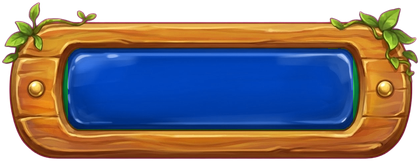
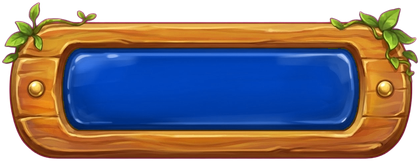
Fenêtres une par une ; incubateur : pourcentage + petite barre ; émail rouge/bleu jusqu'aux bouts ; titre de bannière centré
Retours de l'auteur. « Nouvelle créature ! » attend la fermeture de « Gardien
vaincu ! » (plus de superposition). La barre de l'incubateur, à 100 % d'un
bloc sans largeur fixe, se réduisait à une pastille ronde sur téléphone :
pourcentage + petite barre de largeur fixe. La recoloration ne prenait que
le rectangle central de l'émail (bouts verts) : émail d'un seul tenant.
Titre de bannière placé en nombres, sans marge de police Android. Sonde de
taps 20 / 20 ; 68 contrôles verts, 87 sabotages prouvés.

Changed region(s): [[0.1857, 0.7764, 0.8048, 0.8075], [0.1238, 0.3727, 0.1857, 0.7143], [0.8357, 0.3727, 0.8667, 0.7453]]

diff --git a/mobile/src/screens/games/fenetreBois.js b/mobile/src/screens/games/fenetreBois.js
@@ -49,7 +49,9 @@ export function FenetreBois({ titre, children, largeur = 310, onFermer = null })
       ) : null}
       {/* Dessinée APRÈS le panneau : elle passe par-dessus son bord. */}
       <ImageBackground source={BANNIERE} resizeMode="contain" style={[styles.banniere, { width: lBanniere, height: hBanniere }]}>
-        <View style={styles.titreZone}>
+        {/* Zone du titre en NOMBRES (pas en %) : sur téléphone, le titre de
+            l'incubateur tombait trop bas (retour de l'auteur, 27/09). */}
+        <View style={[styles.titreZone, { left: Math.round(lBanniere * 0.17), width: Math.round(lBanniere * 0.66), top: Math.round(hBanniere * 0.36), height: Math.round(hBanniere * 0.44) }]}>
           <Text style={styles.titre} numberOfLines={1} adjustsFontSizeToFit minimumFontScale={0.6}>{titre}</Text>
         </View>
       </ImageBackground>
@@ -92,8 +94,8 @@ export function BoutonBois({ texte, sousTexte = null, couleur = 'vert', onPress,
 
 const styles = StyleSheet.create({
   banniere: { position: 'absolute', top: 0, alignSelf: 'center' },
-  titreZone: { position: 'absolute', left: '17%', right: '17%', top: '36%', bottom: '20%', alignItems: 'center', justifyContent: 'center' },
-  titre: { color: '#fff7d6', fontSize: 20, fontWeight: '900', textShadowColor: 'rgba(15,40,10,0.95)', textShadowRadius: 4, textShadowOffset: { width: 0, height: 1 } },
+  titreZone: { position: 'absolute', alignItems: 'center', justifyContent: 'center' },
+  titre: { color: '#fff7d6', fontSize: 20, fontWeight: '900', includeFontPadding: false, textAlignVertical: 'center', textShadowColor: 'rgba(15,40,10,0.95)', textShadowRadius: 4, textShadowOffset: { width: 0, height: 1 } },
   bouton: { alignSelf: 'center', marginTop: 8 },
   fermer: { position: 'absolute', right: 12, width: 30, height: 30, borderRadius: 15, backgroundColor: 'rgba(40,24,12,0.92)', borderWidth: 1.5, borderColor: '#d9a441', alignItems: 'center', justifyContent: 'center', zIndex: 2 },
   fermerTexte: { color: '#ffe6a8', fontSize: 15, fontWeight: '900' },

diff --git a/mobile/src/screens/games/IncubatorPanel.js b/mobile/src/screens/games/IncubatorPanel.js
@@ -113,9 +113,13 @@ export default function IncubatorPanel({ egg, onTap, onWatchVideo, onHatch, onBa
                 </Text>
               </View>
 
-              <View style={styles.barTrack}>
-                <View style={[styles.barFill, { width: `${pct}%` }, ready && { backgroundColor: COLORS.good }]} />
-                <Text style={styles.barLabel}>{pct} %</Text>
+              {/* 27/09 (retour de l'auteur) : le pourcentage, puis une petite
+                  barre de chargement dessous. Largeurs en NOMBRES : la barre
+                  à « 100 % » d'un bloc sans largeur fixe se réduisait, sur
+                  téléphone, à une pastille ronde autour du texte. */}
+              <Text style={[styles.pctTexte, ready && styles.pctTexteFini]}>{pct} %</Text>
+              <View style={styles.miniBarre}>
+                <View style={[styles.miniBarreRemplie, { width: Math.round((MINI_BARRE_L - 2) * pct / 100) }, ready && styles.miniBarreFinie]} />
               </View>
 
               {ready ? (
@@ -172,7 +176,13 @@ export default function IncubatorPanel({ egg, onTap, onWatchVideo, onHatch, onBa
   );
 }
 
+const MINI_BARRE_L = 170;
 const styles = StyleSheet.create({
+  pctTexte: { color: '#ffe6a8', fontSize: 14, fontWeight: '900', textShadowColor: 'rgba(0,0,0,0.8)', textShadowRadius: 3 },
+  pctTexteFini: { color: COLORS.good },
+  miniBarre: { width: MINI_BARRE_L, height: 9, borderRadius: 5, backgroundColor: 'rgba(20,12,6,0.9)', borderWidth: 1, borderColor: '#9a7440', overflow: 'hidden', marginTop: 4, marginBottom: 12 },
+  miniBarreRemplie: { height: 7, borderRadius: 4, backgroundColor: '#f2c14e' },
+  miniBarreFinie: { backgroundColor: COLORS.good },
   // 27/09 : sablier à côté du temps restant (thème forêt).
   timerRow: { flexDirection: 'row', alignItems: 'center', justifyContent: 'center', gap: 6 },
   timerSablier: { width: 22, height: 34 },

diff --git a/mobile/src/screens/games/ClickerScreen.js b/mobile/src/screens/games/ClickerScreen.js
@@ -4083,7 +4083,7 @@ export default function ClickerScreen({ onBack, onOpenOptions, onOpenQuests }) {
         </View>
       )}
 
-      {bossResult && (
+      {bossResult && !resultatGardien && !rewardCreature && (
         <View style={styles.detailOverlay}>
           {/* 27/09 : fenêtre du thème forêt (demande de l'auteur). */}
           <FenetreBois titre={bossResult.failed ? 'Le boss s\'échappe !' : 'Boss vaincu !'}>
@@ -4149,7 +4149,9 @@ export default function ClickerScreen({ onBack, onOpenOptions, onOpenQuests }) {
           l'écran d'accueil (l'onglet Quêtes n'existe plus), donc cet
           overlay est remonté au niveau de l'écran entier — sinon la
           récompense serait invisible au moment exact où elle tombe. */}
-      {rewardCreature && (
+      {/* 27/09 (retour de l'auteur) : UNE fenêtre à la fois — la créature
+          n'apparaît qu'après la fermeture de « Gardien vaincu ! ». */}
+      {rewardCreature && !resultatGardien && (
         <View style={styles.detailOverlay}>
           {/* 27/09 (demande de l'auteur) : la créature EN GRAND au milieu de
               la fenêtre du thème forêt. */}

diff --git a/mobile/CLICKER_ADVENTURE_STATE.md b/mobile/CLICKER_ADVENTURE_STATE.md
@@ -1003,3 +1003,23 @@ sur la cible) ; case des pièces 140.
   pas après la 1re ligne d'un import sur plusieurs lignes (le compilateur
   l'attrape, mais ça coûte un aller-retour).
 Scène de banc `scenes/fenetres2.jsx` (créature, incubateur en cours, prêt).
+
+**2e retour de l'auteur sur les fenêtres (27/09)** :
+- **Fenêtres superposées** (« Gardien vaincu ! » par-dessus « Nouvelle
+  créature ! ») → UNE à la fois : la créature attend la fermeture du Gardien,
+  le mini boss attend les deux.
+- **Pastille ronde « 12 % » dans l'incubateur** — cause réelle : barre à
+  `width: '100%'` d'un bloc SANS largeur fixe (centré par le panneau) ; sur
+  téléphone, le calcul tourne en rond et la barre se réduit à son texte (le
+  navigateur, lui, la dessinait). → pourcentage + petite barre de largeur en
+  NOMBRES (`MINI_BARRE_L`).
+- **Vert sur les côtés du bouton rouge** — cause réelle : la recoloration ne
+  prenait que le RECTANGLE central de l'émail ; ses bouts arrondis restaient
+  verts. → recoloration de l'émail d'UN SEUL TENANT (plus grande zone verte
+  connexe, trous bouchés) ; les feuilles, morceaux séparés, restent vertes.
+- **Titre « Incubateur » trop bas** → zone du titre en NOMBRES et
+  `includeFontPadding: false` (marge de police d'Android).
+- ⚠ **RÈGLE (3 bugs du même genre ce jour)** : dans ces fenêtres, tailles et
+  positions en NOMBRES — pas de % sur un ImageBackground, ni de `width: '100%'`
+  dans un bloc sans largeur fixe. Le banc (navigateur) ne reproduit PAS ces
+  écarts : seul le téléphone les montre.
